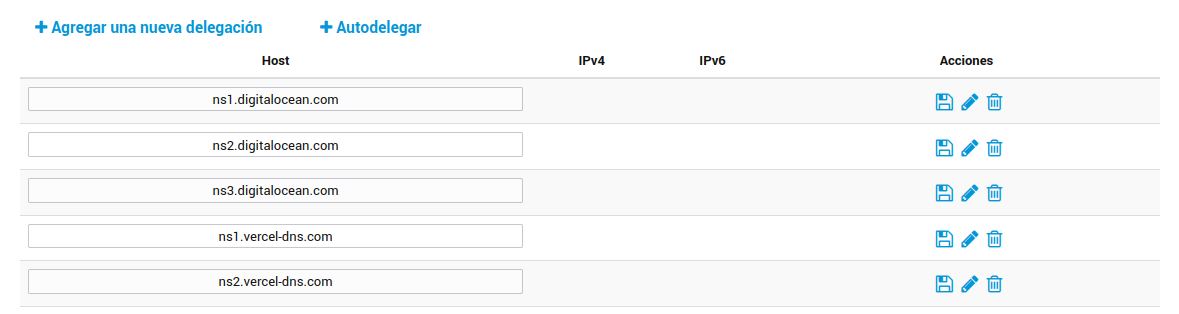
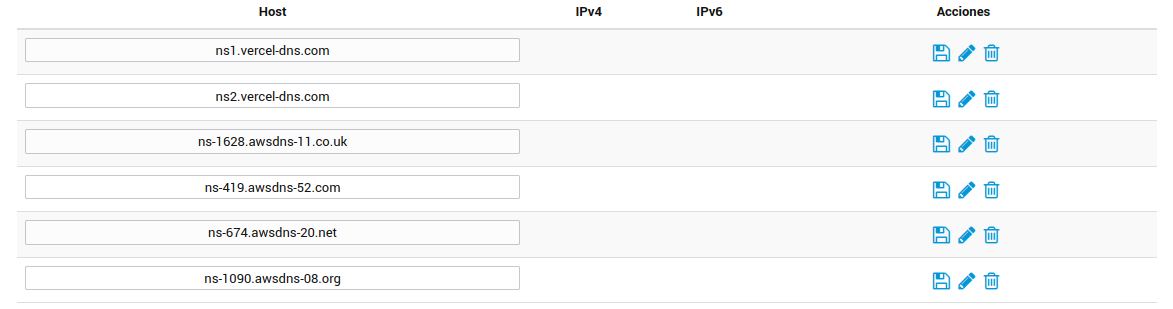
docs: DNS problem

diff --git a/docs/README.md b/docs/README.md
@@ -1,3 +1,5 @@
+14/8/2023
+
 Hey! Here is a little detail about what went ok and what went wrong.
 
 Status so far
@@ -73,6 +75,8 @@ sudo certbot delete --cert-name <my-domain>
 
 Also I had to remove the domain from the DNS configuration at the network panel over digital ocean and my domain provider which in this case it is `nic.ar`
 
+15/8/2023
+
 - [x] Mail forwarding
 
 Everything went okay after I moved from `digitalocean` network to `route53`, I had to add a MX record to the domain and that was it.
@@ -91,6 +95,21 @@ records = [
 - [x] Blog
 
 I just had to move the `CNAME` to route53 and that was it.
+
+
+### Networking
+
+16/8/2023
+
+So networking in general I'm losing the only braincell I have remaining since i'm trying to have nic.ar to redirect jonathan.com.ar to both vercel (for the portfolio) and digital ocean for the remaining apps but I'm doing a mess (idk if this is possible) since the apps are being sent to vercel.
+
+I'll update once I have a solution for this.
+
+17/8/2023
+
+- [x] Domains
+
+So I've moved everything to route53, I had to add a few things to the terraform code, I needed a bit of help from people at the discord channel, to understand how DNS works, but I think I got it. If not i'll be back again tomorrow.
 
 TL;DR
 

diff --git a/docs/networking/README.md b/docs/networking/README.md
@@ -2,14 +2,13 @@
 
 - Nic
 - Route53
-- Digital Ocean
 - Vercel
 
 Nic
 
-![NIC](nic.png)
+![nic](nic.png)
 
-Digital Ocean 
+### Digital Ocean 
 
 DNS
 
@@ -23,13 +22,22 @@ ns3.digitalocean.com
 
 AWS Route 53
 
-![AWS](aws.png)
-
-Vercel
+### Vercel
 
 DNS
 
 ```
 ns1.vercel-dns.com
 ns2.vercel-dns.com
+```
+
+### AWS
+
+DNS
+
+```
+ns-1628.awsdns-11.co.uk
+ns-419.awsdns-52.com
+ns-674.awsdns-20.net
+ns-1090.awsdns-08.org
 ```

diff --git a/README.md b/README.md
@@ -24,7 +24,7 @@ Why not amplify? Praise the sun, I mean, praise the free tier.
 - [x] Blog
   - Since is only a CNAME do it early.
 
-- [ ] Domains
+- [x] Domains
   - Once your infrastructure is in place, configure your domains to point to the relevant services.
 
 - [ ] Build Terraform modules
